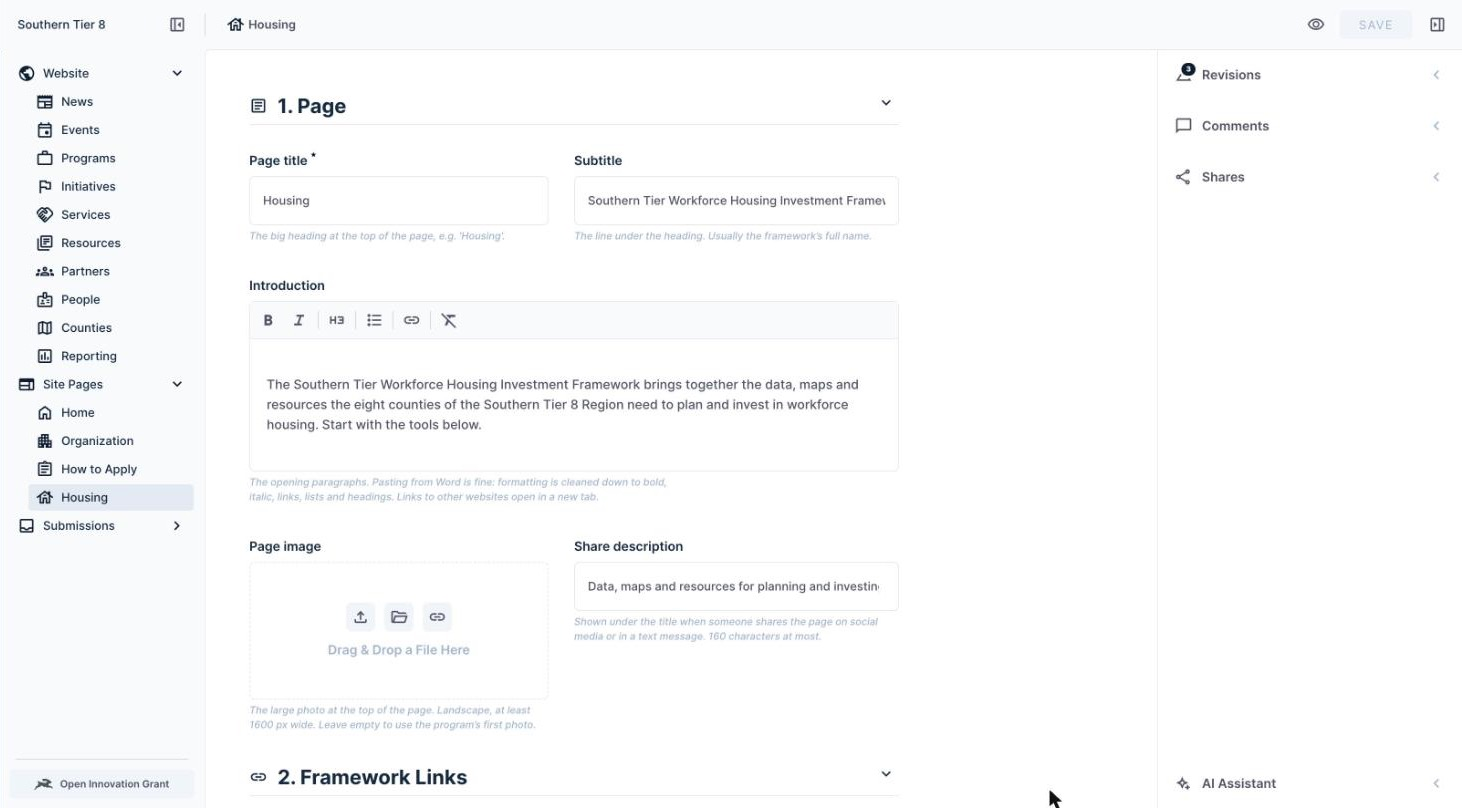
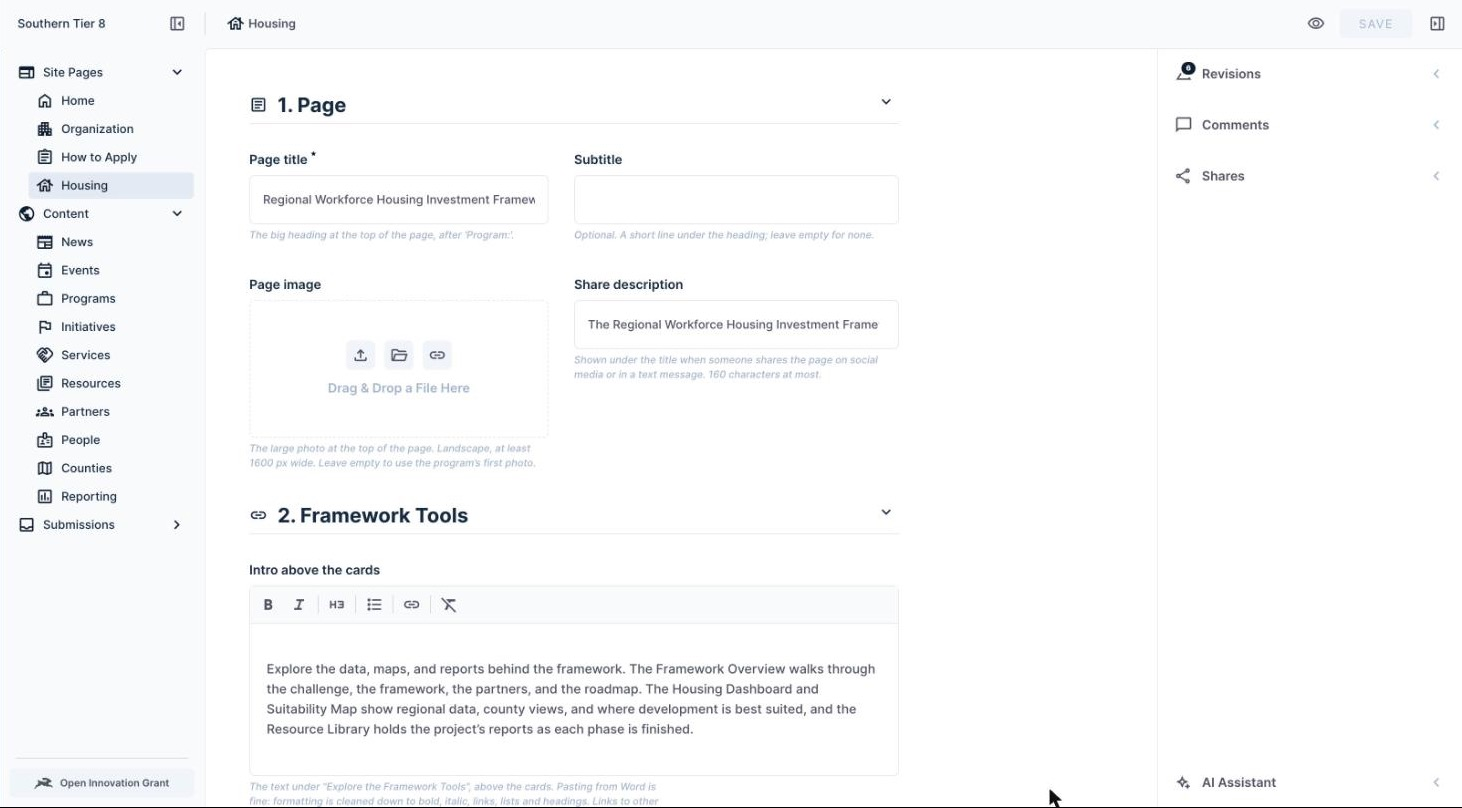
Updated the Housing editing guide for Beth's layout and the Content group.
The guide covers section 2 as Framework Tools (with its intro), the new
section 6 (Final Documents and Opportunities), a table of where each part of
the page is edited, and a checklist of what's still to come (images, the
Nominate and Pledge cards once their forms are live). Screenshots 01, 02, 06
and 07 are retaken and 08 is new.

The Website group in the Directus sidebar is now Content, so the notes that
point to Website → Programs / Resources say Content instead (applied; both
scripts re-run with no changes).

diff --git a/docs/housing-page-editing-guide.md b/docs/housing-page-editing-guide.md
@@ -11,12 +11,23 @@
 
 1. In the left sidebar, under **Site Pages**, click **Housing**.
 2. It opens straight away. There is only one page, so there's no list.
-3. You'll see five sections. Click a section's heading to open or close it.
-   - **1. Page**
-   - **2. Framework Links**
-   - **3. Forecast Figures**
+3. You'll see six sections. Click a section's heading to open or close it.
+   - **1. Page**: title, photo and share text
+   - **2. Framework Tools**: the Explore the Framework Tools section
+   - **3. Forecast Figures**: numbers for the Housing Forecast pages
    - **4. Home Page Banner**
-   - **5. Partners, Resources & News**
+   - **5. Partners, Resources & News**: the program record behind the page
+   - **6. Documents & Opportunities**: the Final Documents and Opportunities to be Involved sections
+
+How the page is laid out, top to bottom, and where each part is edited:
+
+| On the page | Edited in |
+|---|---|
+| Program title, photo, counties and initiative served | 1. Page (counties and initiative: section 5) |
+| About the Program, What the Framework Delivers | 5. Partners, Resources & News (the program's What Is It and What It Accomplishes) |
+| Explore the Framework Tools | 2. Framework Tools |
+| Final Documents, Opportunities to be Involved | 6. Documents & Opportunities |
+| Partners, Related Resources, Related News | 5. Partners, Resources & News |
 
 ![Site Pages → Housing open in Directus, with the Save button top right and the Preview eye icon beside it](images/housing-guide/01-page.jpg)
 
@@ -30,17 +41,20 @@ The short address **southerntier8.org/programs/housing** (the one on QR codes an
 
 ## 1. Page
 
-- **Page title:** the big heading at the top, e.g. "Housing".
-- **Subtitle:** the line under the heading. Usually the framework's full name.
-- **Introduction:** the opening paragraphs. Use the toolbar for bold, italic, headings, bullet lists, links and clear formatting. Pasting from Word is fine; the formatting is cleaned up for you. Links to other websites open in a new tab.
+- **Page title:** the big heading at the top, after "Program:". Now "Regional Workforce Housing Investment Framework".
+- **Subtitle:** optional; a short line under the heading. Empty for now.
 - **Page image:** the large photo at the top. Landscape, at least 1600 px wide. Leave it empty to use the program's first photo.
 - **Share description:** shows when someone shares the page on social media or in a text message. 160 characters at most.
 
-## 2. Framework Links
+## 2. Framework Tools
 
-Each row is one card on the page. Cards show in list order.
+This is the **Explore the Framework Tools** section: a short intro, then one card per link.
 
-![The Framework Links list: one row per card, with a drag handle on the left and a trash icon on the right](images/housing-guide/02-framework-links.jpg)
+![Section 2: the Intro above the cards, then the Framework links list with a drag handle on the left of each row and a trash icon on the right](images/housing-guide/02-framework-links.jpg)
+
+**Intro above the cards** is the text under the heading. Use the toolbar for bold, italic, headings, bullet lists, links and clear formatting. Pasting from Word is fine; the formatting is cleaned up for you. Links to other websites open in a new tab.
+
+In **Framework links**, each row is one card. Cards show in list order.
 
 - **Add a link:** adds a new row.
 - **Click a row** to open it and edit it. When you're done, click **Save** at the top of that panel, then save the whole page with the main **Save** button.
@@ -52,7 +66,7 @@ Each row has these fields:
 ![One link open for editing: Title, Type, Description, Link (url) and Button Text](images/housing-guide/03-link-row.jpg)
 
 - **Title** (required): the card's heading.
-- **Type**: Dashboard, Map, Library, Report or Other. This sets the card's icon.
+- **Type**: Overview, Dashboard, Map, Library, Report, Get involved (a form) or Other. This sets the card's icon.
 - **Description**: 200 characters at most.
 - **Link (url)** (required): must start with https://. Copy it from the browser's address bar.
 - **Button Text**: e.g. "Open the dashboard". Left empty, the button says "Open".
@@ -86,21 +100,32 @@ The whole banner links to the Housing page.
 
 ## 5. Partners, Resources & News
 
-The Housing page also shows partners, resources, related news, counties served, and the "What it is" and "What it accomplishes" text. These are stored on the Housing **program record**, the same as on every program page, and this section lets you edit that record without leaving the Housing page.
+The Housing page also shows the **About the Program** and **What the Framework Delivers** text, partners, related resources, related news, and the counties and initiative served. These are stored on the Housing **program record**, the same as on every program page, and this section lets you edit that record without leaving the Housing page. In the program, About the Program is the **What Is It** field and What the Framework Delivers is **What It Accomplishes**.
 
 ![Section 5: a note, then the Program record with its open, pencil and x icons](images/housing-guide/06-program-section.jpg)
 
 1. Click the **pencil** on **Program record**. The program opens in a panel on the right.
-2. Scroll to **News**, **Partners**, **Counties** or **Resources**. Use **Add Existing** to link one, or the trash icon to unlink it. Edit **What Is It** and **What It Accomplishes** here too.
+2. Scroll to **News**, **Partners**, **Counties**, **Initiatives** or **Resources**. Use **Add Existing** to link one, or the trash icon to unlink it. Edit **What Is It** and **What It Accomplishes** here too. To add a resource that doesn't exist yet, create it under **Content → Resources** first.
 3. Click **Save** at the top of the panel, then **Save** the Housing page.
 
 ![The program record open in the side panel, with its News, Events, Initiatives and Partners lists](images/housing-guide/07-program-panel.jpg)
 
-- The **open** icon (box with an arrow) opens the same record under **Website → Programs** instead.
+- The **open** icon (box with an arrow) opens the same record under **Content → Programs** instead.
 - Don't click the **x**: it unlinks the program, and the page won't save without one.
 - Don't change the program's **URL** field (it says "housing"). The Housing page and its short address depend on it.
 - Only **published** partners, resources and news show on the page.
 - **Explore Our Programs** at the bottom lists every other published program automatically; there's nothing to edit for it.
+
+## 6. Documents & Opportunities
+
+Two sections that fill in as the project goes on. Each has a short text and a list of links.
+
+![Section 6: Final Documents text and links, then Opportunities to be Involved text and links, each list with an Add a link button](images/housing-guide/08-documents.jpg)
+
+- **Final Documents: text** shows under the "Final Documents" heading. It says the Roadmap and final documents will be posted here.
+- **Final Documents: links**: add one row per document with **Add a link**. Each row has a **Title**, a **Link (URL)** starting with https://, and an optional one-line **Description**. For a PDF, upload it to the file library, open it, and copy its address.
+- **Opportunities to be Involved: text** and **links** work the same way. The section stays hidden until one of them has something in it, so it appears as soon as you add the first text or link (for example, the fund administrator procurement).
+- Links in both lists open in a new tab.
 
 ## The other Site Pages
 
@@ -108,12 +133,12 @@ The Housing page also shows partners, resources, related news, counties served, 
 
 ## Before the summit (11/18)
 
-- [ ] **Introduction:** replace the stand-in text with Beth's page copy.
 - [ ] **Page image:** upload one.
 - [ ] **Banner image:** upload one.
-- [ ] **Banner title and banner text:** replace the stand-ins.
-- [ ] **Dashboard and Suitability Map links:** check they're the addresses Beth wants (they point at CommunityScale's /dashboard and /map pages).
-- [ ] **Resource Library link:** it points at the CommunityScale project home for now. Replace it with the real address when CommunityScale sends it.
+- [ ] **Banner title:** "Housing in the Southern Tier" is a stand-in; change it if you'd like.
+- [ ] **Housing Site Readiness Map card:** its description ("Where development is best suited across the region.") was written for you; edit it if needed.
+- [ ] **Nominate a Partner and Pledge Support:** when the CommunityScale forms are live, add a card for each in **2. Framework Tools** (Type: Get involved), and add the sentence "Organizations that want to take part can nominate a partner or pledge support for the framework." to the intro.
+- [ ] **Opportunities to be Involved:** add text when you're ready; the section appears then.
 - [ ] **After the summit:** untick **Show on home page**.
 
 ## When the page is shared on Facebook
